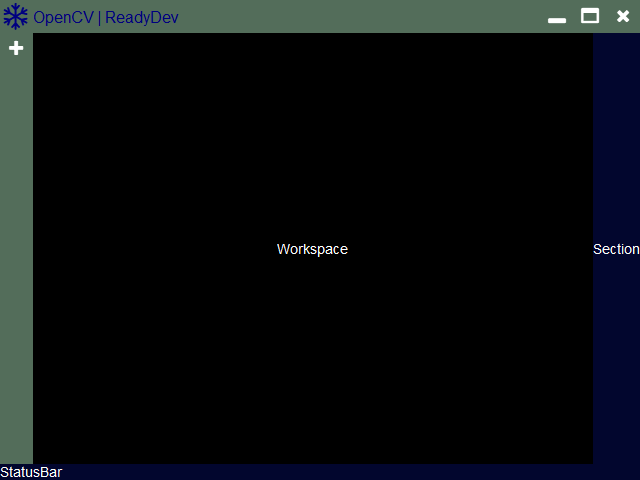
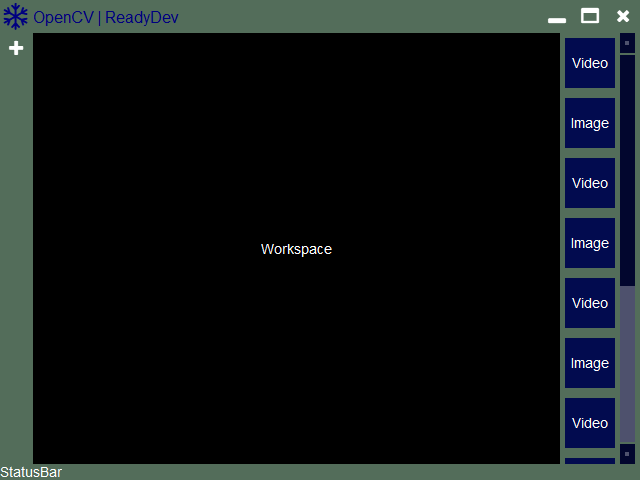
Initial Commit

Changed region(s): [[0.0, 0.0625, 1.0, 1.0], [0.4062, 0.5, 0.5625, 0.5312]]

diff --git a/qt/win/data/css/style.css b/qt/win/data/css/style.css
@@ -50,7 +50,6 @@ QScrollBar::add-line:vertical {
     subcontrol-position: bottom;
     subcontrol-origin: margin;
 }
-
 QScrollBar::sub-line:vertical {
     border: none;
     background: #02062e;
@@ -61,9 +60,8 @@ QScrollBar::sub-line:vertical {
 QScrollBar::up-arrow:vertical, 
 QScrollBar::down-arrow:vertical {
     background: #4e516d;
-    border-radius: 3px;
-    width: 6px;
-    height: 6px;
+    width: 4px;
+    height: 4px;
 }
 
 QScrollBar::add-page:vertical, 

diff --git a/qt/code/GProject/src/manager/GSectionDefault.cpp b/qt/code/GProject/src/manager/GSectionDefault.cpp
@@ -2,72 +2,68 @@
 #include "GSectionDefault.h"
 #include "GModule.h"
 #include "GPicto.h"
+#include "GPrint.h"
 //===============================================
 GSectionDefault::GSectionDefault(QWidget* parent) :
 GSection(parent) {
 	QVBoxLayout* lMainLayout = new QVBoxLayout;
 
-	QScrollArea* lScrollArea = new QScrollArea;
-	QVBoxLayout* lScrollLayout = new QVBoxLayout;
-	QWidget* lScrollWidget = new QWidget;
+	m_scrollArea = new QScrollArea;
+	m_scrollLayout = new QVBoxLayout;
+	m_scrollWidget = new QWidget;
 
-	GModule* lModule;
+	m_scrollLayout->setMargin(0);
+	m_scrollLayout->setSpacing(0);
+	m_scrollLayout->setAlignment(Qt::AlignTop);
 
-	lModule = GModule::Create("VIDEO");
-	lScrollLayout->addWidget(lModule);
+	m_scrollWidget->setLayout(m_scrollLayout);
+	m_scrollWidget->installEventFilter(this);
 
-	lModule = GModule::Create("IMAGE");
-	lScrollLayout->addWidget(lModule);
-
-	lModule = GModule::Create("VIDEO");
-	lScrollLayout->addWidget(lModule);
-
-	lModule = GModule::Create("IMAGE");
-	lScrollLayout->addWidget(lModule);
-
-	lModule = GModule::Create("VIDEO");
-	lScrollLayout->addWidget(lModule);
-
-	lModule = GModule::Create("IMAGE");
-	lScrollLayout->addWidget(lModule);
-
-	lModule = GModule::Create("VIDEO");
-	lScrollLayout->addWidget(lModule);
-
-	lModule = GModule::Create("IMAGE");
-	lScrollLayout->addWidget(lModule);
-
-	lModule = GModule::Create("VIDEO");
-	lScrollLayout->addWidget(lModule);
-
-	lModule = GModule::Create("IMAGE");
-	lScrollLayout->addWidget(lModule);
-
-	lModule = GModule::Create("VIDEO");
-	lScrollLayout->addWidget(lModule);
-
-	lModule = GModule::Create("IMAGE");
-	lScrollLayout->addWidget(lModule);
-
-	lScrollLayout->setMargin(0);
-	lScrollLayout->setSpacing(0);
-	lScrollLayout->setAlignment(Qt::AlignTop);
-
-	lScrollWidget->setLayout(lScrollLayout);
-
-	lScrollArea->setWidget(lScrollWidget);
-	lScrollArea->setVerticalScrollBarPolicy(Qt::ScrollBarAlwaysOn);
-	lScrollArea->setWidgetResizable(true);
+	m_scrollArea->setWidget(m_scrollWidget);
+	m_scrollArea->setVerticalScrollBarPolicy(Qt::ScrollBarAsNeeded);
+	m_scrollArea->setHorizontalScrollBarPolicy(Qt::ScrollBarAlwaysOff);
+	m_scrollArea->setWidgetResizable(true);
+	m_scrollArea->verticalScrollBar()->setCursor(Qt::PointingHandCursor);
+	m_scrollArea->setSizePolicy(QSizePolicy::Ignored, QSizePolicy::Expanding);
+	m_scrollArea->verticalScrollBar()->installEventFilter(this);
 
 	lMainLayout->setMargin(0);
 	lMainLayout->setSpacing(0);
 	lMainLayout->setAlignment(Qt::AlignTop);
-	lMainLayout->addWidget(lScrollArea);
+	lMainLayout->addWidget(m_scrollArea);
 
 	setLayout(lMainLayout);
+
+    m_timer = new QTimer(this);
+    m_timer->setInterval(50);
+    m_timer->setSingleShot(true);
+    connect(m_timer, SIGNAL(timeout()), this, SLOT(slotAddModuleMenuTimer()));
 }
 //===============================================
 GSectionDefault::~GSectionDefault() {
 
+}
+//===============================================
+void GSectionDefault::slotAddModuleMenuSelect(QString module) {
+	GModule* lModule = GModule::Create(module);
+	m_scrollLayout->addWidget(lModule);
+}
+//===============================================
+void GSectionDefault::slotAddModuleMenuTimer() {
+	int lWidth = 0;
+	lWidth += m_scrollWidget->sizeHint().width();
+	if(m_scrollArea->verticalScrollBar()->isVisible() == true) {
+		lWidth += m_scrollArea->verticalScrollBar()->sizeHint().width();
+	}
+	m_scrollArea->setMinimumWidth(lWidth);
+}
+//===============================================
+bool GSectionDefault::eventFilter(QObject *object, QEvent *event) {
+	if (event->type() == QEvent::Resize) {
+		if(object == m_scrollWidget || object == m_scrollArea->verticalScrollBar()) {
+			m_timer->start();
+		}
+	}
+	return QWidget::eventFilter(object, event);
 }
 //===============================================

diff --git a/qt/code/GProject/src/manager/GModuleImage.cpp b/qt/code/GProject/src/manager/GModuleImage.cpp
@@ -1,6 +1,7 @@
 //===============================================
 #include "GModuleImage.h"
 #include "GPicto.h"
+#include "GPrint.h"
 //===============================================
 GModuleImage::GModuleImage(QWidget* parent) :
 GModule(parent) {
@@ -18,9 +19,34 @@ GModule(parent) {
 
 	setCursor(Qt::PointingHandCursor);
 	setToolTip(tr("Module Image"));
+
+	m_moduleMenu = new QMenu(this);
+
+	QAction* lAction;
+
+	lAction = new QAction(this);
+	m_actionMap[lAction] = "OPEN_IMAGE";
+	lAction->setText(tr("Ouvrir une image"));
+	lAction->setIcon(GPicto::Instance()->getPicto(fa::folderopen));
+	m_moduleMenu->addAction(lAction);
+
+	connect(m_moduleMenu, SIGNAL(triggered(QAction*)), this, SLOT(slotModuleMenuSelect(QAction*)));
 }
 //===============================================
 GModuleImage::~GModuleImage() {
 
+}
+//===============================================
+void GModuleImage::mousePressEvent(QMouseEvent *event) {
+	if(event->button() == Qt::LeftButton) {
+		QPoint lCursorPos = QCursor::pos();
+		m_moduleMenu->exec(lCursorPos);
+	}
+	QWidget::mousePressEvent(event);
+}
+//===============================================
+void GModuleImage::slotModuleMenuSelect(QAction* action) {
+	QString lAction = m_actionMap[action];
+	GPrint::Instance()->print(lAction);
 }
 //===============================================

diff --git a/qt/code/GProject/src/manager/GPrint.cpp b/qt/code/GProject/src/manager/GPrint.cpp
@@ -19,21 +19,37 @@ GPrint* GPrint::Instance() {
 }
 //===============================================
 void GPrint::print(QString data) {
+	currentDate();
 	cout << "QString: ";
 	cout << data.toStdString() << "\n";
 }
 //===============================================
 void GPrint::print(QPoint data) {
+	currentDate();
 	cout << "QPoint: ";
 	cout << "x: " << data.x() << " ; ";
 	cout << "y: " << data.y() << "\n";
 }
 //===============================================
 void GPrint::print(QRect data) {
+	currentDate();
 	cout << "QRect: ";
 	cout << "x: " << data.x() << " ; ";
 	cout << "y: " << data.y() << " ; ";
 	cout << "w: " << data.width() << " ; ";
 	cout << "h: " << data.height() << "\n";
+}
+//===============================================
+void GPrint::print(QSize data) {
+	currentDate();
+	cout << "QSize: ";
+	cout << "w: " << data.width() << " ; ";
+	cout << "h: " << data.height() << "\n";
+}
+//===============================================
+void GPrint::currentDate() {
+	QDateTime lCurrentDate = QDateTime::currentDateTime();
+	QString lFormat = lCurrentDate.toString("dd/MM/yyyy HH:mm:ss");
+	cout << lFormat.toStdString() << " | ";
 }
 //===============================================

diff --git a/qt/code/GProject/src/manager/GWindowDefault.cpp b/qt/code/GProject/src/manager/GWindowDefault.cpp
@@ -39,6 +39,8 @@ GWindow(parent) {
 	connect(lTitle, SIGNAL(emitWindowMaximize()), this, SLOT(slotWindowMaximize()));
 	connect(lTitle, SIGNAL(emitWindowClose()), this, SLOT(close()));
 	connect(lTitle, SIGNAL(emitWindowFullScreen()), this, SLOT(slotWindowFullScreen()));
+	connect(lMenu, SIGNAL(emitAddModuleMenuSelect(QString)), lSection, SLOT(slotAddModuleMenuSelect(QString)));
+	connect(lSection, SIGNAL(emitWindowAdjustSize()), this, SLOT(slotWindowAdjustSize()));
 	connect(this, SIGNAL(emitWindowMaximize(int, int)), lTitle, SLOT(slotWindowMaximize(int, int)));
 	connect(this, SIGNAL(emitWindowFullScreen(int, int)), lTitle, SLOT(slotWindowFullScreen(int, int)));
 }
@@ -83,5 +85,9 @@ void GWindowDefault::slotWindowFullScreen() {
 		showFullScreen();
 	}
 	emit emitWindowFullScreen(lWindowState, windowState());
+}
+//===============================================
+void GWindowDefault::slotWindowAdjustSize() {
+	adjustSize();
 }
 //===============================================

diff --git a/qt/code/GProject/src/include/GWindow.h b/qt/code/GProject/src/include/GWindow.h
@@ -13,11 +13,12 @@ public:
 	static GWindow* Create(QString key);
 
 public slots:
-	virtual void slotWindowPress(QPoint position) = 0;
-	virtual void slotWindowMove(QPoint position) = 0;
-	virtual void slotWindowMinimize() = 0;
-	virtual void slotWindowMaximize() = 0;
-	virtual void slotWindowFullScreen() = 0;
+	virtual void slotWindowPress(QPoint position);
+	virtual void slotWindowMove(QPoint position);
+	virtual void slotWindowMinimize();
+	virtual void slotWindowMaximize();
+	virtual void slotWindowFullScreen();
+	virtual void slotWindowAdjustSize();
 
 signals:
 	void emitWindowMaximize(int oldState, int newState);

diff --git a/qt/code/GProject/src/include/GSectionDefault.h b/qt/code/GProject/src/include/GSectionDefault.h
@@ -8,6 +8,19 @@ class GSectionDefault : public GSection {
 public:
 	GSectionDefault(QWidget* parent = 0);
 	~GSectionDefault();
+
+protected:
+	bool eventFilter(QObject *object, QEvent *event);
+
+public slots:
+	void slotAddModuleMenuSelect(QString module);
+	void slotAddModuleMenuTimer();
+
+private:
+	QScrollArea* m_scrollArea;
+	QWidget* m_scrollWidget;
+	QVBoxLayout* m_scrollLayout;
+	QTimer* m_timer;
 };
 //===============================================
 #endif

diff --git a/qt/code/GProject/src/manager/GWindow.cpp b/qt/code/GProject/src/manager/GWindow.cpp
@@ -16,3 +16,10 @@ GWindow* GWindow::Create(QString key) {
 	return new GWindowDefault;
 }
 //===============================================
+void GWindow::slotWindowPress(QPoint position) {}
+void GWindow::slotWindowMove(QPoint position) {}
+void GWindow::slotWindowMinimize() {}
+void GWindow::slotWindowMaximize() {}
+void GWindow::slotWindowFullScreen() {}
+void GWindow::slotWindowAdjustSize() {}
+//===============================================

diff --git a/qt/code/GProject/src/include/GMenu.h b/qt/code/GProject/src/include/GMenu.h
@@ -13,8 +13,11 @@ public:
 	static GMenu* Create(QString key);
 
 public slots:
-	virtual void slotAddModuleMenuOpen() = 0;
-	virtual void slotAddModuleMenuSelect(QAction* action) = 0;
+	virtual void slotAddModuleMenuOpen();
+	virtual void slotAddModuleMenuSelect(QAction* action);
+
+signals:
+	void emitAddModuleMenuSelect(QString module);
 };
 //===============================================
 #endif

diff --git a/qt/code/GProject/src/include/GTitle.h b/qt/code/GProject/src/include/GTitle.h
@@ -13,8 +13,8 @@ public:
 	static GTitle* Create(QString key);
 
 public slots:
-	virtual void slotWindowMaximize(int oldState, int newState) = 0;
-	virtual void slotWindowFullScreen(int oldState, int newState) = 0;
+	virtual void slotWindowMaximize(int oldState, int newState);
+	virtual void slotWindowFullScreen(int oldState, int newState);
 
 signals:
 	void emitWindowPress(QPoint position);

diff --git a/qt/code/GProject/src/manager/GMenuDefault.cpp b/qt/code/GProject/src/manager/GMenuDefault.cpp
@@ -53,7 +53,7 @@ void GMenuDefault::slotAddModuleMenuOpen() {
 }
 //===============================================
 void GMenuDefault::slotAddModuleMenuSelect(QAction* action) {
-	QString lKey = m_moduleMap[action];
-	GPrint::Instance()->print(lKey);
+	QString lModule = m_moduleMap[action];
+	emit emitAddModuleMenuSelect(lModule);
 }
 //===============================================

diff --git a/qt/code/GProject/src/include/GModuleImage.h b/qt/code/GProject/src/include/GModuleImage.h
@@ -8,6 +8,16 @@ class GModuleImage : public GModule {
 public:
 	GModuleImage(QWidget* parent = 0);
 	~GModuleImage();
+
+protected:
+	void mousePressEvent(QMouseEvent *event);
+
+public slots:
+	void slotModuleMenuSelect(QAction* action);
+
+private:
+	QMenu* m_moduleMenu;
+	QMap<QAction*, QString> m_actionMap;
 };
 //===============================================
 #endif
